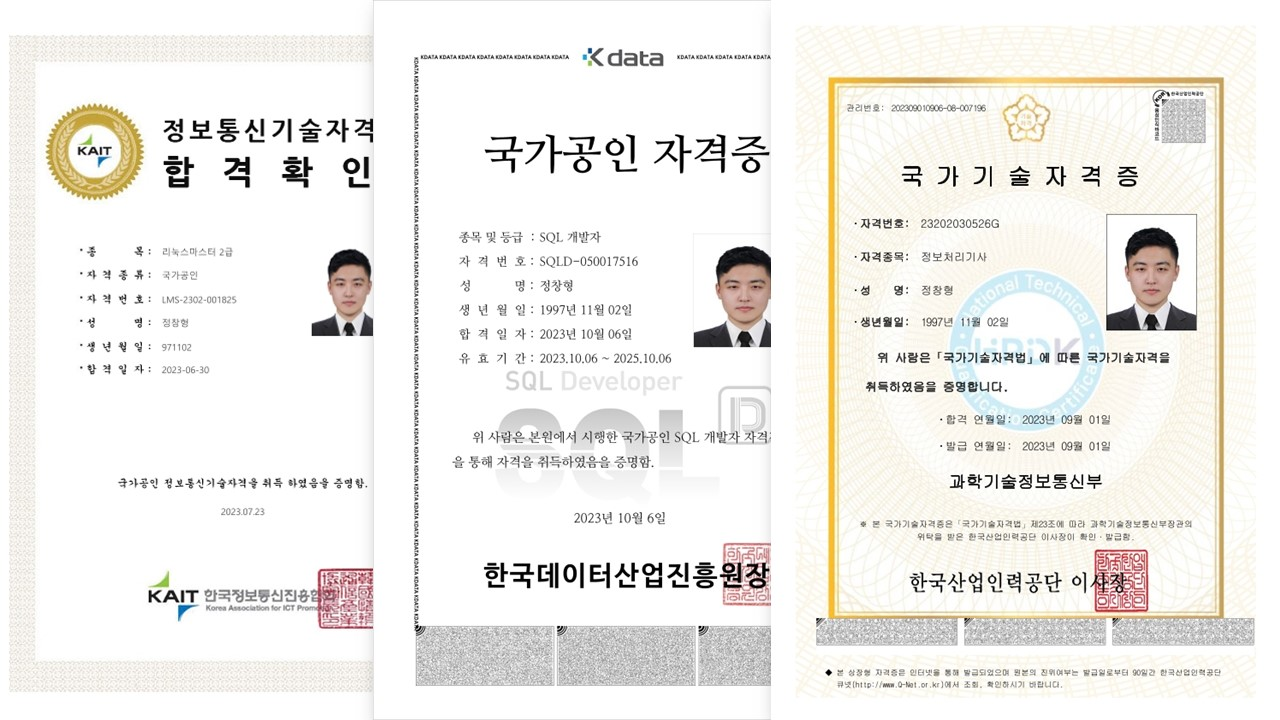
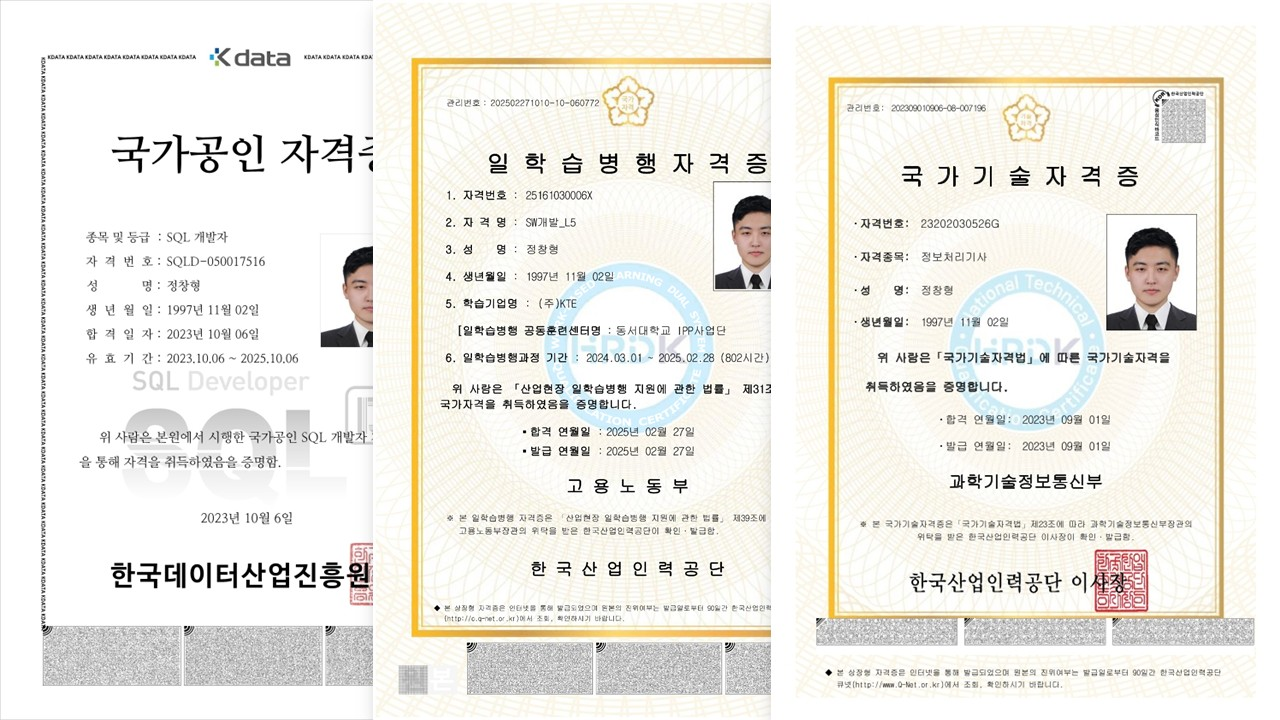
자격 및 경력 최신화

Changed region(s): [[0.0, 0.0306, 0.625, 0.9778], [0.1562, 0.7028, 0.2188, 0.7333]]

diff --git a/index.html b/index.html
@@ -165,14 +165,10 @@
 
             <h3 class="resume-title">Certificate</h3>
             <div class="resume-item">
-              <h4>SQL 개발자</h4>
-              <h5>2023.10.</h5>
-            </div>
-            <div class="resume-item">
-              <h4>정보처리기사</h4>
-              <h5>2023.09.</h5>
-              <p><img src="./assets/img/certificate/engineer-information-processing.png" style="max-width: 30%;"
-                alt=""></p>
+              <h4>AWS Certified Cloud Practitioner</h4>
+              <h5>2023.04.</h5>
+              <p><img src="./assets/img/certificate/aws-certified-cloud-practitioner.png" style="max-width: 30%;"
+                  alt=""></p>
             </div>
             <div class="resume-item">
               <h4>리눅스마스터2급</h4>
@@ -181,10 +177,18 @@
                 alt=""></p>
             </div>
             <div class="resume-item">
-              <h4>AWS Certified Cloud Practitioner</h4>
-              <h5>2023.04.</h5>
-              <p><img src="./assets/img/certificate/aws-certified-cloud-practitioner.png" style="max-width: 30%;"
-                  alt=""></p>
+              <h4>정보처리기사</h4>
+              <h5>2023.09.</h5>
+              <p><img src="./assets/img/certificate/engineer-information-processing.png" style="max-width: 30%;"
+                alt=""></p>
+            </div>
+            <div class="resume-item">
+              <h4>SQL 개발자</h4>
+              <h5>2023.10.</h5>
+            </div>
+            <div class="resume-item">
+              <h4>SW개발_L5</h4>
+              <h5>2025.02.</h5>
             </div>
           </div>
           <div class="col-lg-6" data-aos="fade-up" data-aos-delay="100">
@@ -246,6 +250,15 @@
                 <li>C++, C#, Ladder, SCADA 등 프로그래밍</li>
               </ul>
             </div>
+            <div class="resume-item">
+              <h4>(주)KTE 기술연구소 에너지변환연구팀 연구원</h4>
+              <h5>2025.01. ~</h5>
+              <p><em>선박 전기/전자장비 연구개발</em></p>
+              <ul>
+                <li>전자장비 관리 및 테스트 프로그램 제작</li>
+                <li>마이크로프로세서 펌웨어 프로그래밍</li>
+              </ul>
+            </div>
           </div>
         </div>
       </div>
@@ -268,7 +281,7 @@
           <div class="row" data-aos="fade-up" data-aos-delay="100">
             <div class="portfolio-description">
               <img src="./assets/img/portfolio/portfolio-0.jpg" style="max-width: 100%; height: auto;">
-              <h2>666점 취득 (수준4: 문제해결형 (650 ~ 849점))</h2>
+              <h2>710점 취득 (수준4: 문제해결형 (650 ~ 849점))</h2>
               <p>
                 <li>기술 및 비즈니스 영역에 대한 지식과 스킬을 응용하여 과제를 해결할 수 있는 수준</li>
                 <li>기술 및 비즈니스 영역에 대한 지식과 스킬을 다양한 방법으로 과제해결에 응용할 수 있다.</li>
